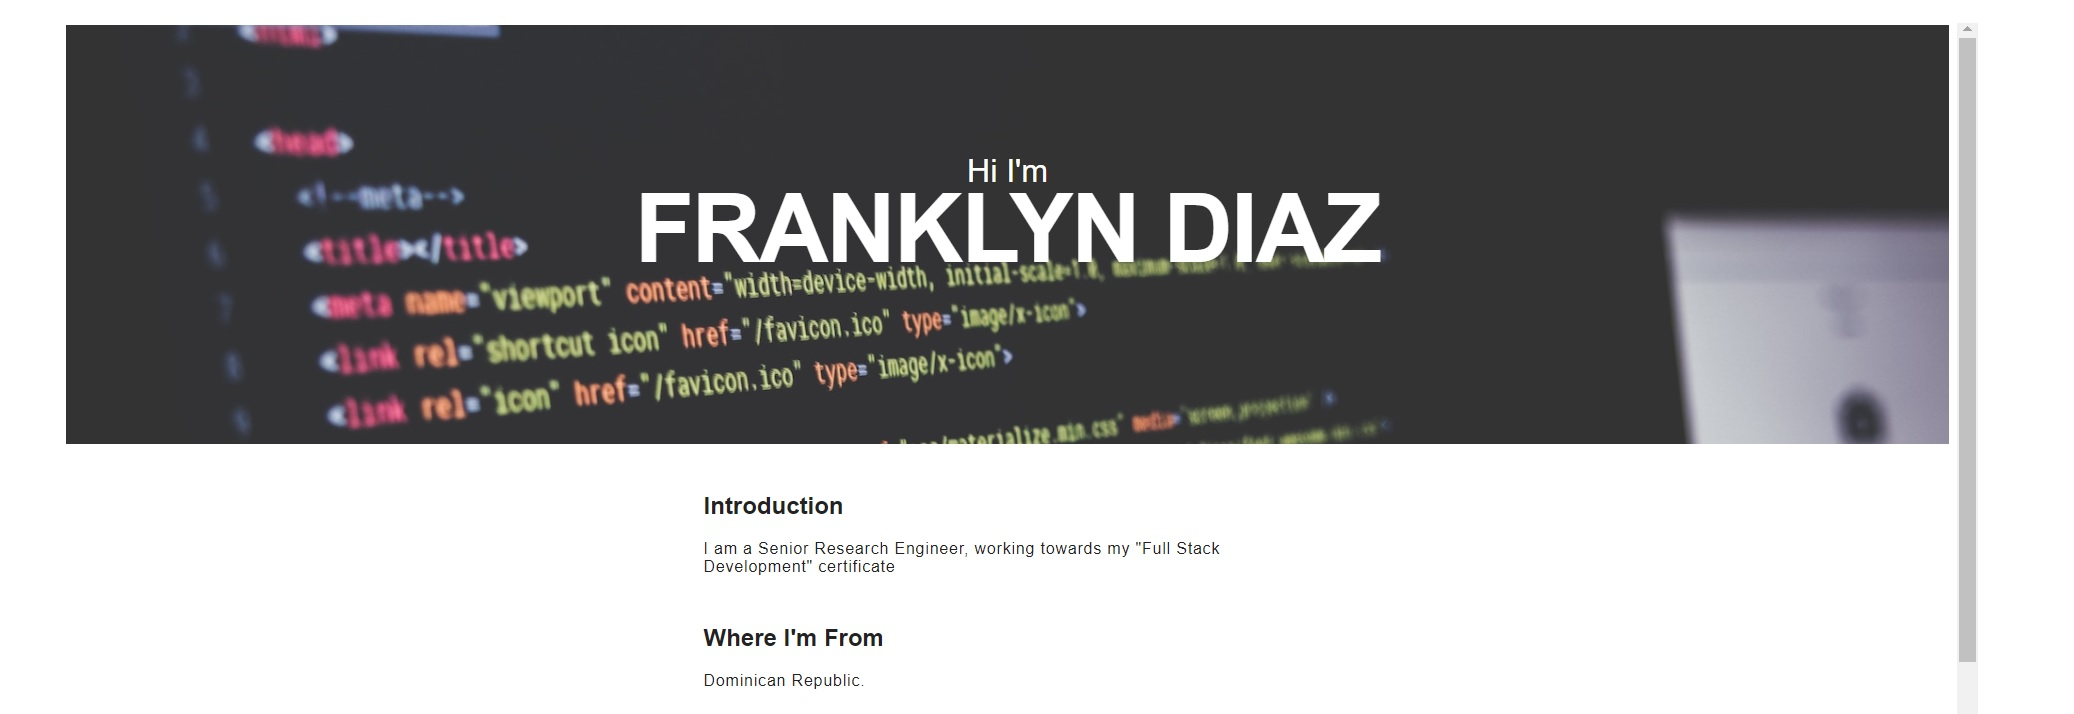
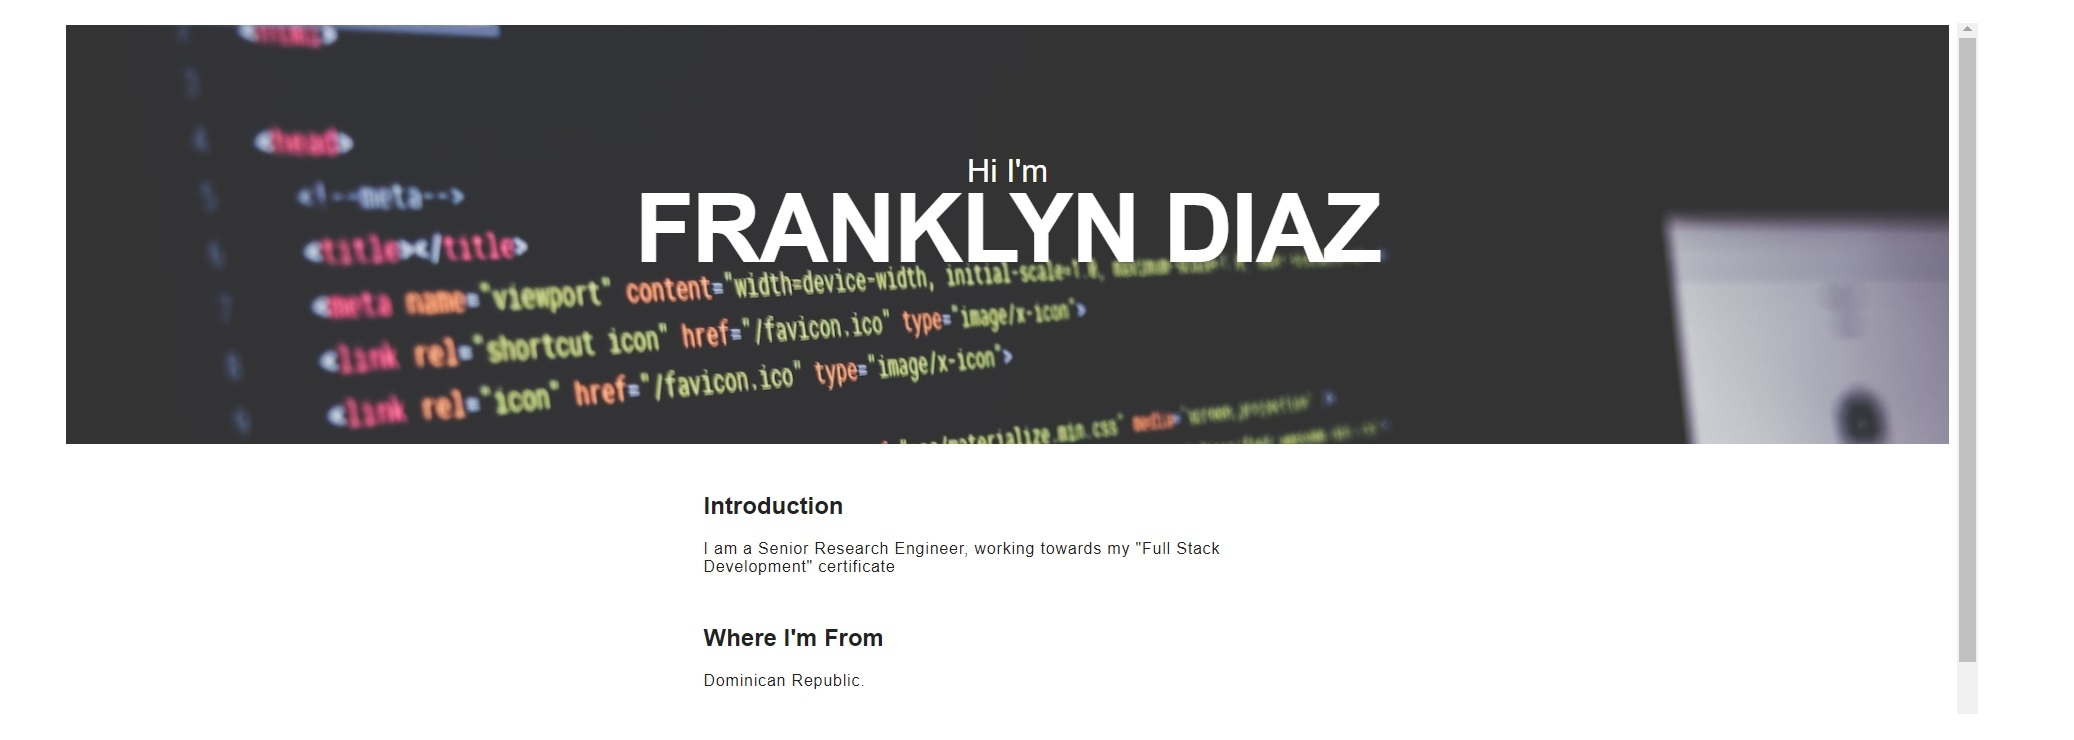
resizing pictures to fit areas, changing text sizes and backgroun page color

diff --git a/index.html b/index.html
@@ -79,7 +79,7 @@
       <!---->
       <a class="secPrj" href="https://fjunior1.github.io/generatePassword/" style="background-image: url('./Assets/images/passGen.jpg');">
         <div class="innerWrap">
-          <div class="namePrj">Generate Password</div>
+          <div class="namePrj">Generate Pswd</div>
           <div class="detailPrj">generates random password with input</div>
 
         </div>

diff --git a/Assets/css/style.css b/Assets/css/style.css
@@ -1,6 +1,6 @@
 
 body {
-  background-color: rgb(255, 230, 203);
+  background-color: rgb(241, 248, 255);
 }
 
 header {
@@ -154,7 +154,7 @@ header a:hover {
 /*name of projects to the right in bold*/
 .namePrj{
   color:rgb(97, 97, 97);
-  font-size:24px ;
+  font-size:20px ;
   font-weight: bold;
 }
 
